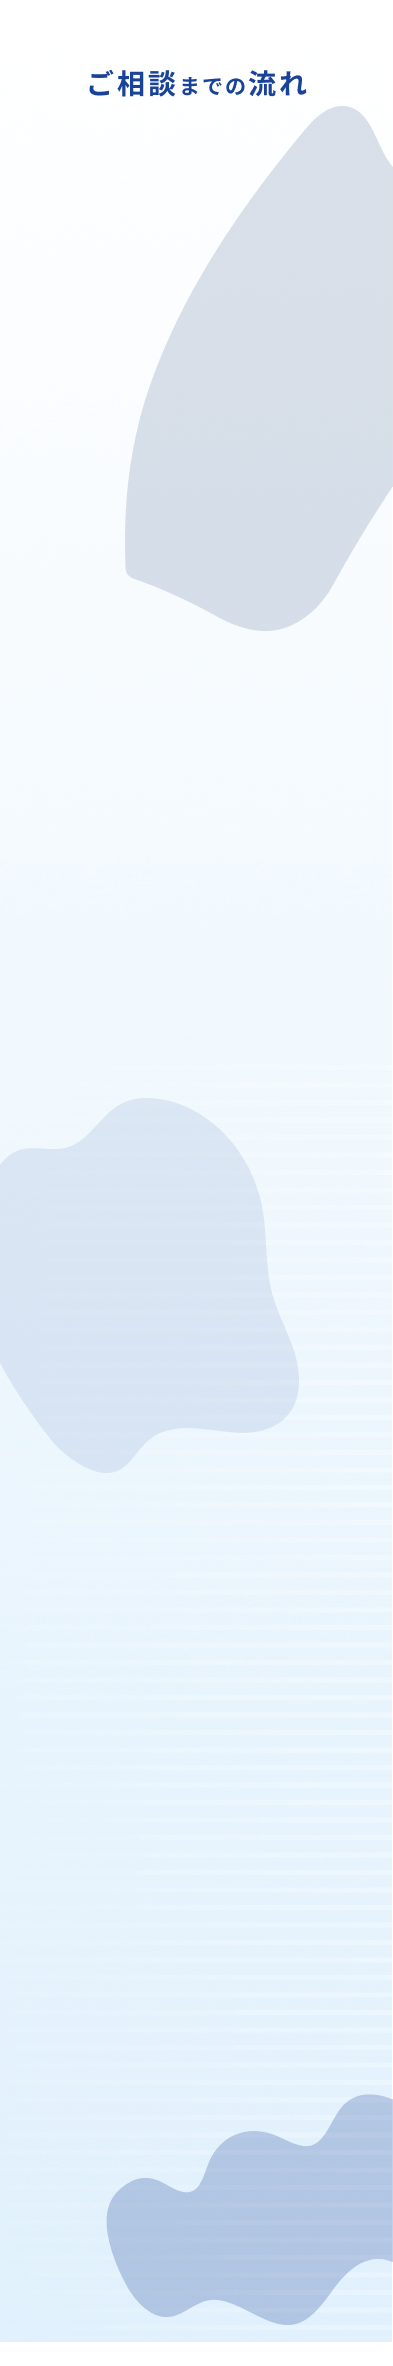
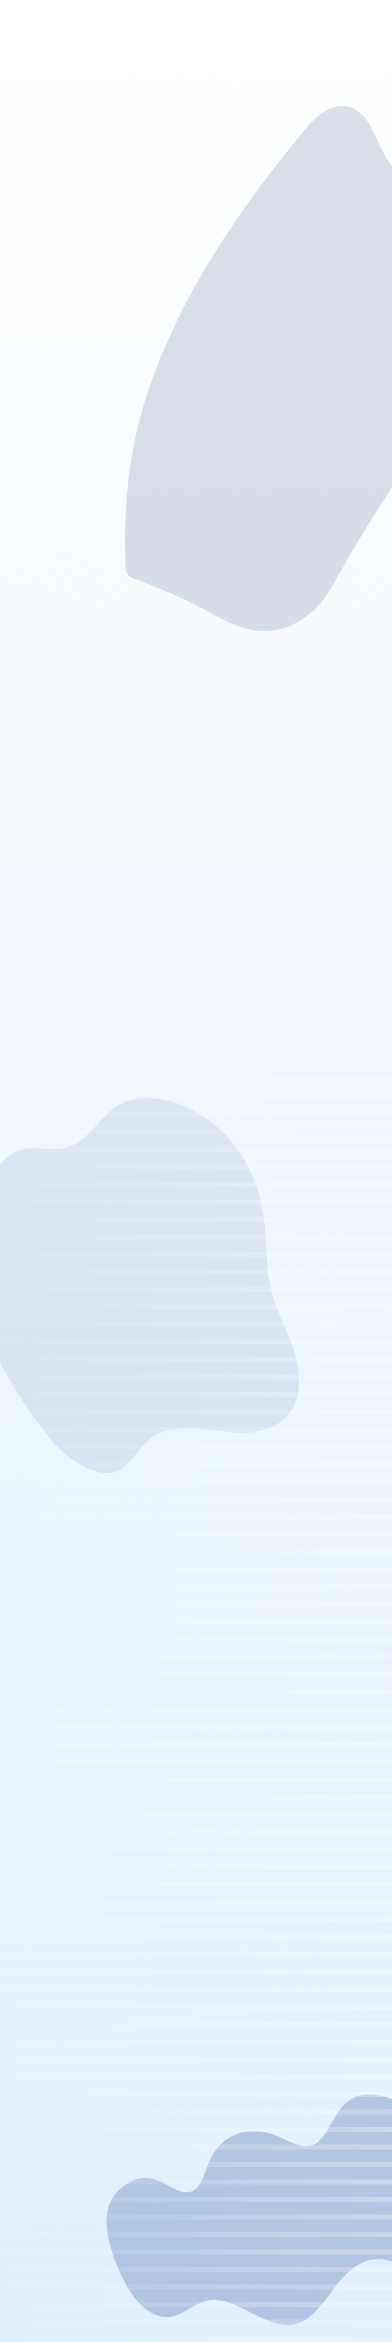
お客様の声 > 追加
・ご利用までの流れ > 修正

diff --git a/index.html b/index.html
@@ -213,16 +213,17 @@
             </div>
             <div class="c-contents-inner c-contentsBox -contents-body">
                 <div class="c-contentsBox -contents04-title">
-                    <h2 class="imgBox">
+                    <h2 class="s-LL -b -color02 -center -ls-2 pdb5 pdb5s">ご利用<span class="s-L -s20 -b -color02">までの</span>流れ</h2>
+                    <!-- <h2 class="imgBox">
                         <img class="tb-pc" src="images/title/contents04-title.png" alt="ご利用までの流れ">
-                    </h2>
+                    </h2> -->
                 </div>
                 <!-- 流れ１ -->
                 <div class="c-contentsBox -flowItem -flowItem01">
                     <ul class="c-flex -col1_2 -pc2_1 -jc-sb">
                         <li class="flexItem mgb5s">
                             <div class="selif -no1 imgBox mgb2 mgb1s"><img src="images/item/flow-selif.png" alt="吹き出し"></div>
-                            <h3 class="s-L -s20 -b -color02 mgb3 mgb2s">お問い合わせ受付</h3>
+                            <h3 class="s-L -s20 -b -color02 -ls-1 mgb3 mgb2s">お問い合わせ受付</h3>
                             <p class="s-M -b -lh-1_5 -ls-2">
                                 まずは、サイト内から弊社の公式LINEアカウントを「友だち登録」していただき、「ご相談の予約」をしていただきます。
                             </p>
@@ -239,7 +240,7 @@
                     <ul class="c-flex -col1_2 -pc2_1 -r -jc-sb">
                         <li class="flexItem mgb5s">
                             <div class="selif -no2 imgBox mgb2 mgb1s"><img src="images/item/flow-selif.png" alt="吹き出し"></div>
-                            <h3 class="s-L -s20 -b -color02 mgb3 mgb2s">お電話<span class="s-M -b -color02 -ls-1">での</span>ヒアリング</h3>
+                            <h3 class="s-L -s20 -b -color02 -ls-1 mgb3 mgb2s">お電話<span class="s-ML -b -color02 -ls-1">での</span>ヒアリング</h3>
                             <p class="s-M -b -lh-1_5 -ls-2">
                                 5~10分で簡単なヒアリングを行います。<br>
                                 その際にご相談の内容を簡単にお伝えください。
@@ -257,7 +258,7 @@
                     <ul class="c-flex -col1_2 -pc2_1 -jc-sb">
                         <li class="flexItem mgb5s">
                             <div class="selif -no3 imgBox mgb2 mgb1s"><img src="images/item/flow-selif.png" alt="吹き出し"></div>
-                            <h3 class="s-L -s20 -b -color02 -ws-n mgb3 mgb2s">お客様<span class="s-M -s14 -color02">に</span>ピッタリ<span class="s-M -s14 -b -color02">の</span>FP<span class="s-M -s14 -b -color02">に</span>お繋ぎします。
+                            <h3 class="s-L -s20 -b -color02 -ws-n mgb3 mgb2s">お客様<span class="s-ML -s14 -color02">に</span>ピッタリ<span class="s-ML -s14 -b -color02">の</span>FP<span class="s-ML -s14 -b -color02">に</span>お繋ぎします。
                             </h3>
                             <p class="s-M -b -lh-1_5 -ls-2">
                                 弊社専属の業界平均10年以上のファインナンシャルプランナーが、ご対応いたします。まだ気づいていないような問題点を必ず見つけ出し、ご相談者様一人ひとりにピッタリのプランをご提案致します。
@@ -275,7 +276,7 @@
                     <ul class="c-flex -col1_2 -pc2_1 -r -jc-sb">
                         <li class="flexItem mgb5s">
                             <div class="selif -no4 imgBox mgb2 mgb1s"><img src="images/item/flow-selif.png" alt="吹き出し"></div>
-                            <h3 class="s-L -s20 -b -color02 mgb3 mgb2s">ご契約<span class="s-M -b -color02 -ls-1">までの</span>サポート</h3>
+                            <h3 class="s-L -s20 -b -color02 -ls-1 mgb3 mgb2s">ご契約<span class="s-ML -b -color02">までの</span>サポート</h3>
                             <p class="s-M -b -lh-1_5 -ls-2">
                                 お客様に安心していただけるよう、初回のご相談から契約後まで丁寧にサポート致します。ご要望に応じて対面・オンライン両方対応可能です。
                             </p>
@@ -292,7 +293,7 @@
                     <ul class="c-flex -col1_2 -pc2_1 -jc-sb">
                         <li class="flexItem mgb5s">
                             <div class="selif -no5 imgBox mgb2 mgb1s"><img src="images/item/flow-selif.png" alt="吹き出し"></div>
-                            <h3 class="s-L -s20 -b -color02 -ws-n mgb3 mgb2s">充実<span class="s-M -s14 -color02">の</span>アフターサポート</h3>
+                            <h3 class="s-L -s20 -b -color02 -ws-n mgb3 mgb2s">充実<span class="s-ML -s14 -color02">の</span>アフターサポート</h3>
                             <p class="s-M -b -lh-1_5 -ls-2">
                                 ご契約後もお客様一人ひとりに弊社専属のファイナンシャルプランナーを担当としてお付けします。最新のご状況やご要望を反映していくことで、常にご相談者様に付き添ったサービスをご提供致します。
                             </p>
@@ -325,9 +326,44 @@
                 </div>
             </div>
         </div>
-        <!-- コンテンツ > #05 -->
-        <div id="c05" class="c-contents pdt10 mgb10 mgb20s"></div><!-- // #05 -->
+        <!-- #05 お客様の声_スライダー -->
+        <div id="c05" class="c-contents -slider pdt5 pdt10s pdb5 pdb10s">
+            <div class="c-contents-inner">
+                <h2 class="s-LL -b -color02 -center -ls-2 pdb5 pdb5s">お客様<span class="s-L -s20 -b -color02">の</span>声</h2>
+                <!-- スライダー + popup -->
+                <div class="swiper swiper-Popup pdb5 pdb10s">
+                    <ul class="swiper-wrapper">
+                        <li class="swiper-slide">
+                            <a href="images/slider/koe01.png" class="luminous" data-lightbox="popup-pic" data-title="Y.T様のご感想"><img src="images/slider/koe01.png" alt="Y.T様のご感想"/></a>
+                        </li>
+                        <li class="swiper-slide">
+                            <a href="images/slider/koe02.png" class="luminous" data-lightbox="popup-pic" data-title="T.A様のご感想"><img src="images/slider/koe02.png" alt="T.A様のご感想"/></a>
+                        </li>
+                        <li class="swiper-slide">
+                            <a href="images/slider/koe03.png" class="luminous" data-lightbox="popup-pic" data-title="S.T様のご感想"><img src="images/slider/koe03.png" alt="S.T様のご感想"/></a>
+                        </li>
+                        <li class="swiper-slide">
+                            <a href="images/slider/koe04.png" class="luminous" data-lightbox="popup-pic" data-title="R.T様のご感想"><img src="images/slider/koe04.png" alt="T.R様のご感想"/></a>
+                        </li>
+                        <li class="swiper-slide">
+                            <a href="images/slider/koe05.png" class="luminous" data-lightbox="popup-pic" data-title="N.M様のご感想"><img src="images/slider/koe05.png" alt="N.M様のご感想"/></a>
+                        </li>
+                        <li class="swiper-slide">
+                            <a href="images/slider/koe06.png" class="luminous" data-lightbox="popup-pic" data-title="K.K様のご感想"><img src="images/slider/koe06.png" alt="K.K様のご感想"/></a>
+                        </li>
+                    </ul>
+                    <div class="swiper-button-prev"></div>
+                    <div class="swiper-button-next"></div>
+                    <div class="swiper-pagination"></div>
+                </div>
+            </div>
+        </div>
+        <!-- #06 よくある質問 -->
+        <div id="c06" class="c-contents -bg-lightBlue01 pdt5 pdt10s pdb5 pdb10s">
+            <div class="c-contents-inner">
 
+            </div>
+        </div>
 
         <!-- 周辺環境画像 + 拡大 > サンプル -->
         <!-- .imgBoxクラス内のimageとmyCanvasに設定しているimagesの大きさを同じにして下さい。 -->
@@ -338,29 +374,7 @@
             </div>
         </div>
 
-        <!-- スライダー + popup > サンプル -->
-        <!-- <div class="swiper swiper-Popup">
-            <ul class="swiper-wrapper">
-                <li class="swiper-slide">
-                    <a href="images/slider/~" class="luminous" data-lightbox="popup-pic" data-title="画像 1/5"><img src="images/slider/~" alt="画像　1/5"/></a>
-                </li>
-                <li class="swiper-slide">
-                    <a href="images/slider/~" class="luminous" data-lightbox="popup-pic" data-title="画像 2/5"><img src="images/slider/~" alt="画像　2/5"/></a>
-                </li>
-                <li class="swiper-slide">
-                    <a href="images/slider/~" class="luminous" data-lightbox="popup-pic" data-title="画像 3/5"><img src="images/slider/~" alt="画像　3/5"/></a>
-                </li>
-                <li class="swiper-slide">
-                    <a href="images/slider/~" class="luminous" data-lightbox="popup-pic" data-title="画像 4/5"><img src="images/slider/~" alt="画像　4/5"/></a>
-                </li>
-                <li class="swiper-slide">
-                    <a href="images/slider/~" class="luminous" data-lightbox="popup-pic" data-title="画像 5/5"><img src="images/slider/~" alt="画像　5/5"/></a>
-                </li>
-            </ul>
-            <div class="sp swiper-button-prev"></div>
-            <div class="sp swiper-button-next"></div>
-            <div class="swiper-pagination"></div>
-        </div> -->
+
     </main>
     <!-- //コンテンツ -->
 
@@ -430,23 +444,22 @@
 
     <script>
         // トップページ > fristView
-        const FviewSwiper = new Swiper(".swiper-Fview", {
-            effect: 'fade',
-            fadeEffect: {crossFade: true,},
-            // loop: true,
-            speed: 3000,
-            autoplay: {
-                delay: 5000,
-                disableOnInteraction: false,
-                waitForTransition: true,
-            },
-            grabCursor: true,
-            followFinger: false,
-            pagination: {
-                el: '.swiper-Fview .swiper-pagination',
-                clickable: true,
-            },
-        });
+        // const FviewSwiper = new Swiper(".swiper-Fview", {
+        //     effect: 'fade',
+        //     fadeEffect: {crossFade: true,},
+        //     speed: 3000,
+        //     autoplay: {
+        //         delay: 5000,
+        //         disableOnInteraction: false,
+        //         waitForTransition: true,
+        //     },
+        //     grabCursor: true,
+        //     followFinger: false,
+        //     pagination: {
+        //         el: '.swiper-Fview .swiper-pagination',
+        //         clickable: true,
+        //     },
+        // });
 
         const popupSwiper = new Swiper(".swiper-Popup", {
             effect: 'slide',
@@ -454,10 +467,9 @@
                 invert: false,
             },
             centeredSlides: true,
-            slidesPerView: 1,
+            slidesPerView: 1.5,
             fadeEffect: {crossFade: true,},
             loop: true,
-            // speed: 3000,
             autoplay: {
                 delay: 5000,
                 disableOnInteraction: false,
@@ -466,11 +478,11 @@
             grabCursor: true,
             followFinger: false,
             navigation: {
-                nextEl: ".swiper-button-next.-delta",
-                prevEl: ".swiper-button-prev.-delta",
+                nextEl: ".swiper-button-next",
+                prevEl: ".swiper-button-prev",
             },
             pagination: {
-                el: '.swiper-Fview .swiper-pagination',
+                el: '.swiper-Popup .swiper-pagination',
                 clickable: true,
             },
             breakpoints: {

diff --git a/css/style.css b/css/style.css
@@ -399,7 +399,7 @@ h1.s-L, h2.s-L, h3.s-L, h4.s-L, h5.s-L, h6.s-L, p.s-L, a.s-L, span.s-L, label.s-
   }
 }
 h1.s-LL, h2.s-LL, h3.s-LL, h4.s-LL, h5.s-LL, h6.s-LL, p.s-LL, a.s-LL, span.s-LL, label.s-LL, button.s-LL {
-  font-size: 2.1rem;
+  font-size: 3rem;
 }
 @media (width >= 768px) {
   h1.s-LL, h2.s-LL, h3.s-LL, h4.s-LL, h5.s-LL, h6.s-LL, p.s-LL, a.s-LL, span.s-LL, label.s-LL, button.s-LL {
@@ -4610,10 +4610,15 @@ button.swiper-pagination-bullet {
   }
 }
 .c-contents.-imgBg .c-contentsBox.-contents04-title {
-  top: 7%;
+  top: 4%;
   left: 50%;
   transform: translate(-50%, -50%);
   width: 100%;
+}
+@media (width >= 768px) {
+  .c-contents.-imgBg .c-contentsBox.-contents04-title {
+    top: 9%;
+  }
 }
 .c-contents.-imgBg .c-contentsBox.-flowItem {
   left: 50%;
@@ -6127,7 +6132,7 @@ a {
   }
 }
 .swiper .swiper-button-prev::after, .swiper .swiper-button-next::after {
-  color: #ebebeb !important;
+  color: #636363 !important;
 }
 .swiper .swiper-button-prev.-delta::after, .swiper .swiper-button-next.-delta::after {
   background-repeat: no-repeat;

diff --git a/scss/setting/_typography.scss b/scss/setting/_typography.scss
@@ -188,7 +188,7 @@ h1,h2,h3,h4,h5,h6,p,a,span,label,button{
             @include min(768){font-size: clamp(1.6rem, 2vw, 3.2rem);}
         }
         &.s-LL{
-            font-size: 2.1rem;
+            font-size: 3rem;
             @include min(768){font-size: clamp(1.8rem, 3vw, 5.4rem);}
         }
         &.s-3L{

diff --git a/scss/components/_slider.scss b/scss/components/_slider.scss
@@ -193,7 +193,7 @@
         &-prev,
         &-next{
             &::after{
-                color: $main-color--gray !important;
+                color: $main-color--Dgray !important;
                 // filter: drop-shadow(1px 1px 3px black);
                 @include min(768){
                 }

diff --git a/scss/components/_contents.scss b/scss/components/_contents.scss
@@ -390,10 +390,11 @@
 			}
 			&.-contents04{
 				&-title{
-					top: 7%;
+					top: 4%;
 					left: 50%;
 					transform: translate(-50%, -50%);
 					width: 100%;
+					@include min(768){top: 9%;}
 				}
 			}
 				&.-flowItem{
@@ -444,7 +445,6 @@
 
 					}
 				}
-
 		}
 	}
 
